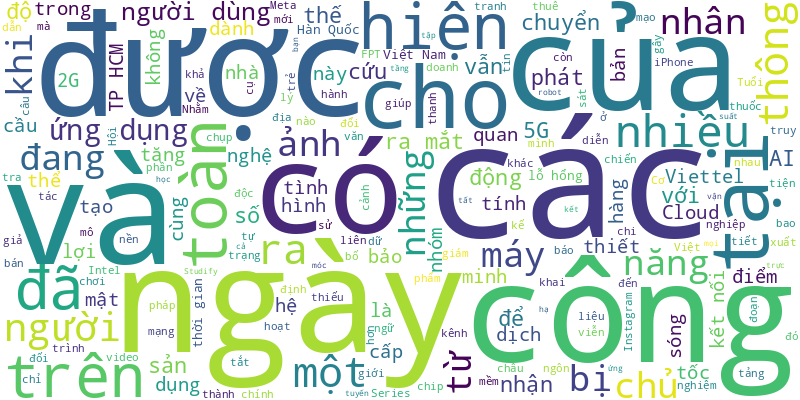
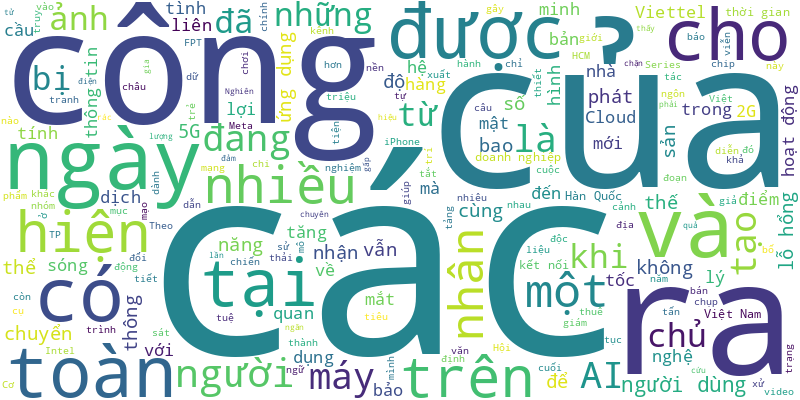
🍀 = 60%

diff --git a/README.md b/README.md
@@ -1,6 +1,16 @@
 # Tuoi Tre RSS 
 
 ## Giáo dục 
+- Trước khi bị hủy văn bằng cử nhân văn học, bà Đào Thị Bích Thủy từng được phó chủ tịch hội đồng trường Trường đại học Kinh Bắc ký quyết định tiếp nhận và bổ nhiệm giữ chức vụ phó hiệu trưởng, kiêm chánh văn phòng của trường.
+- Thủ tướng lưu ý hoàn thiện cơ chế chính sách tuyển dụng, đãi ngộ để giáo viên được thụ hưởng mức lương tương xứng với công sức của mình.
+- Đại sứ New Zealand tại Việt Nam Caroline Beresford ví von giáo dục như một 'viên ngọc trên chiếc vương miện' của mối quan hệ hợp tác giữa hai nước.
+- Trường đại học Công Thương TP.HCM vừa công bố định hướng tuyển sinh đại học chính quy năm 2025, với nhiều thay đổi bất ngờ.
+- Chính phủ vừa ban hành quyết định về việc chuyển Trường đại học Kinh tế quốc dân thành Đại học Kinh tế quốc dân.
+- Một sinh viên sáng chế sản phẩm sáng tạo gặp khó khi tìm đường đưa sản phẩm ra thị trường Việt Nam. Nhưng cũng với nghiên cứu này, sinh viên đã nhận được học bổng du học của một trường nước ngoài.
+- Bộ Giáo dục và Đào tạo khẳng định không giao Trung tâm khảo thí quốc gia và đánh giá chất lượng giáo dục xây dựng bài thi V-SAT.
+- Nhiều năm đóng góp cho hoạt động xã hội, giải thưởng khoa học… GS.TS Lê Ngọc Thạch nói nhẹ bâng: 'Tôi làm bổn phận một công dân. Tôi học thầy tôi'.
+- Phó thủ tướng Chính phủ Lê Thành Long chỉ đạo Bộ Giáo dục và Đào tạo do nhận thấy những lo lắng của phụ huynh.
+- Đây là nghiên cứu khoa học đầu tiên ở cấp độ sinh viên dùng công nghệ đo điện não để hỗ trợ tâm lý cho người có biểu hiện trầm cảm.
 - Hiện tại mô hình giảng dạy AI và mã hóa đã được thử nghiệm tại một số trường học ở thủ đô Jakarta, Indonesia.
 - 'Nhiệm vụ giáo dục ở vùng sâu, vùng xa và những trường chuyên biệt còn nhiều thử thách, thiếu thốn, bất cập, nên cần hơn hết những nhà giáo tiên phong, lĩnh xướng nhận nhiệm vụ đó', Thứ trưởng Nguyễn Thị Kim Chi chia sẻ với các nhà giáo.
 - Cuộc thi Vô địch quốc gia STEM, AI và Robotics 2024 (Vietnam STEM AI Robotics - VSAR) dành cho học sinh phổ thông với chủ đề "Nông nghiệp xanh - Phát triển bền vững" khai mạc chiều 14-11, do báo Tiền Phong tổ chức.
@@ -21,50 +31,42 @@
 - Chỉ thống thông thạo tiếng Anh EPI của Việt Nam năm 2024 giảm so với năm 2023, dẫn đến sự tuột bậc trên bảng xếp hạng.
 - Nhiều học sinh, phụ huynh lo lắng trước thông tin kỳ thi đánh giá năng lực Đại học Quốc gia TP.HCM năm 2025 chỉ dành cho học sinh lớp 12. Thực hư việc này ra sao?
 - Hiệu trưởng Trường tiểu học Phan Văn Trị, quận 1, TP.HCM viết thư ngỏ xin không nhận hoa, quà ngày 20-11, mà đổi thành tập, sữa… cho học sinh.
-- Cấu trúc bài thi đánh giá năng lực Đại học Quốc gia TP.HCM từ năm 2025 được điều chỉnh phù hợp với Chương trình giáo dục phổ thông 2018.
-- Ngày 12-11, ông Trần Đề - hiệu trưởng Trường TH & THCS Thuận Lộc, thị xã Hồng Lĩnh, tỉnh Hà Tĩnh - cho biết nhà trường đã nhận thêm 580 quyển sách quý do báo Tuổi Trẻ chuyển đến từ TP.HCM giúp xây thư viện cho các em học sinh.
-- Đây là nội dung vừa được thống nhất trong buổi làm việc giữa Đại học Quốc gia Hà Nội và Bộ Công an về việc hợp tác đào tạo, bồi dưỡng nguồn nhân lực y tế cho lực lượng Công an nhân dân.
-- Theo Bộ trưởng Nguyễn Kim Sơn, giáo dục thủ đô cần hướng tới mục tiêu cao hơn yêu cầu chung cả nước, tạo nên những công dân có kỹ năng khoa học công nghệ, văn minh thanh lịch thời đại số, tốt chuyên môn, giỏi ngoại ngữ.
-- Với kinh nghiệm lâu năm và chiến lược giáo dục không ngừng đổi mới, Đài Loan đã xây dựng một cơ chế đào tạo nhân lực ngành bán dẫn hiệu quả.
-- Do mâu thuẫn từ trước trong trường học, 2 nam sinh đâm 2 nữ sinh trọng thương phải nhập viện cấp cứu.
-- Sinh viên sư phạm Trường đại học Sài Gòn phản ánh học đến năm 4 vẫn chưa nhận được hỗ trợ sinh hoạt phí. Có sinh viên phải tạm thời nghỉ học.
-- Cơ quan Giáo dục New Zealand (ENZ) vừa công bố học bổng Chính phủ New Zealand bậc đại học (NZUA) dành riêng cho học sinh, sinh viên Việt Nam.
-- Trong kỷ nguyên chuyển đổi số, các hình thức thi đánh giá năng lực ngoại ngữ đã bắt kịp xu thế mới và thi trên máy vi tính đang được thí sinh toàn cầu ưa chuộng.
-- Trong 17 năm qua, quỹ học bổng của gia đình giáo sư Lê Viết Ly đã tài trợ cho tỉnh Thanh Hóa để xây dựng trường học, hỗ trợ thiết bị giáo dục, trao học bổng, trao thưởng với tổng số tiền hơn 75 tỉ đồng.
 ![Edu](Edu.png)
 ## Thời Sự 
-- 12 người có hành vi môi giới mại dâm, mua bán và tổ chức sử dụng ma túy đã bị Công an quận Ngô Quyền (TP Hải Phòng) bắt giữ.
-- Ban giám đốc Công an TP.HCM đã chỉ đạo triển khai thực hiện kế hoạch tăng cường công tác phòng ngừa, quản lý, đấu tranh xử lý các hành vi vi phạm pháp luật liên quan kinh doanh hóa chất nguy hiểm, độc hại, trong đó có xyanua.
-- Dự báo ngày 15-11, bão Usagi có khả năng đi vào đông bắc của Bắc Biển Đông, trở thành cơn bão số 9, nhưng ít có khả năng ảnh hưởng tới đất liền nước ta.
-- TP.HCM lập hội đồng thu hút người tài trong lĩnh vực văn hóa, nghệ thuật, thể thao; Khách của ngân hàng chưa xác thực sinh trắc học sẽ gặp khó.
-- Về khái niệm người Hà Nội gốc gây tranh cãi và "bất hòa" nhiều năm nay, nhà nghiên cứu, phê bình văn học Phạm Xuân Thạch nói: 'Tốt nhất là nên quên nó đi'.
-- Hôm nay 15-11, thời tiết cả nước ổn định, ba miền ngày nắng. Trên biển bão số 8 suy yếu nhanh rồi tan.
-- Trong các ưu tiên trao đổi của thượng đỉnh G20 năm nay tại Brazil, có các lĩnh vực Việt Nam đã đạt được thành tựu to lớn.
-- Bí thư Thành ủy TP.HCM Nguyễn Văn Nên đã tiếp Đại sứ Mông Cổ tại Việt Nam Jigjee Sereejav đến chào từ biệt nhân dịp kết thúc nhiệm kỳ tại Việt Nam.
-- Thủ tướng yêu cầu các bên nỗ lực nối đường cao tốc từ Cao Bằng - Lạng Sơn tới Hà Nội và thông tuyến cao tốc từ Bắc vào Nam, tới tận mũi Cà Mau, mục tiêu hoàn thành trong năm 2025.
-- Biết người từng giúp mình nhập khẩu chiếc Mercedes-Benz là phó chánh văn phòng Ban chỉ đạo 389, chủ một công ty bất động sản đe dọa tống tiền 10 tỉ nếu không sẽ cho 'bay chức'. Chủ doanh nghiệp này bị tòa tuyên án phạt 12 năm tù.
-- Về vụ tiền đất tăng đột biến ở Khánh Hòa, từ năm 2023 tỉnh đã báo cáo Bộ Tài chính có tới 86 đơn vị bị ảnh hưởng, do điều chỉnh đơn giá đất “không tương ứng” và tỉnh chậm ban hành quyết định liên quan nhưng đến nay chưa “sửa sai”.
-- Thủ tướng Chính phủ ký quyết định bổ nhiệm ông Lê Tiến Đạt giữ chức phó tổng Thanh tra Chính phủ. Trước đó ông giữ chức vụ cục trưởng ở cơ quan này.
-- Chủ tịch UBND huyện Tri Tôn, tỉnh An Giang cho hay cơ quan công an đang xem xét, củng cố hồ sơ khởi tố vụ án và bị can là tài xế lái ô tô tải làm sập cầu.
-- Khảo sát đầu tư tại tỉnh Quảng Trị, Tập đoàn Công nghiệp than - khoáng sản Việt Nam (TKV) mong muốn đầu tư dự án để nhập khẩu 5 triệu tấn than đá từ Lào qua tỉnh này, dự án chế biến than từ 8 - 10 triệu tấn/năm.
-- Tổng Bí thư Tô Lâm nhấn mạnh nhiệm vụ xây dựng TP Hải Phòng phát triển ngang tầm với các thành phố tiêu biểu châu Á.
-- Phó bí thư thường trực Thành ủy TP.HCM Nguyễn Hồ Hải lưu ý việc tự kiểm tra giám sát, ngăn ngừa được những sai phạm lớn là điều quan trọng.
-- Người phụ nữ từ Trà Vinh lên thuê trọ tại TP Thủ Đức để trị bệnh ung thư. Sau khi làm tiểu phẫu tại phòng trọ, bà bị mệt, được đưa đến bệnh viện nhưng đã tử vong.
-- HĐND tỉnh Ninh Thuận ra nghị quyết điều chỉnh giảm mức đầu tư đường nối từ cao tốc Bắc - Nam đến cảng Cà Ná so với trước đây hơn 200 tỉ đồng, giảm bề rộng mặt đường để kéo dài toàn tuyến thêm 8,2km.
-- Theo giáo sư Nguyễn Ngọc Trân, kênh Vĩnh Tế mà cha ông đã tốn bao công sức, kể cả sinh mạng để tạo nên là một tài sản vô cùng quý giá của quốc gia.
-- Thủ tướng Phạm Minh Chính sẽ dự Hội nghị Thượng đỉnh G20 tại Rio de Janeiro, và thăm Cộng hòa Dominica sau đó từ ngày 16 đến 21-11.
-- Tại dự Luật Đầu tư công sửa đổi mới nhất, tiếp tục quy định phân cấp cho UBND các cấp quyết định chủ trương đầu tư nhóm B, nhóm C do địa phương quản lý.
-- Thanh tra Bộ Tài nguyên và Môi trường quyết định thanh tra công tác cấp giấy chứng nhận tại TP.HCM và đang triển khai đoàn thanh tra.
-- UBND TP.HCM vừa có văn bản gửi các sở ban ngành, quận huyện yêu cầu tập trung giải quyết dứt điểm các dự án tồn đọng.
-- Ngày 14-11, tại trụ sở Thành ủy Hà Nội, Ban Chỉ đạo Thành ủy về phòng, chống tham nhũng, tiêu cực đã tổ chức họp cho ý kiến về tình hình, kết quả hoạt động thời gian qua, nhiệm vụ trọng tâm những tháng cuối năm 2024.
-- TP Cần Thơ sắp mở đường bay tới tỉnh Vân Nam và thành phố Trùng Khánh của Trung Quốc để giao thương và khai thác hiệu quả sân bay quốc tế Cần Thơ.
-- Theo kế hoạch, dự án đường nối Trần Quốc Hoàn sẽ hoàn thành trong năm 2024, nhưng hiện còn 68 mặt bằng chưa bàn giao.
-- Nhiều bệnh viện tại TP.HCM siết chặt quản lý công tác thu phí gửi xe tại bệnh viện, thu phí gửi xe đúng giá, đúng quy định.
-- Trong 5 dự án BOT cửa ngõ TP.HCM theo nghị quyết 98, các đơn vị tư vấn đề xuất 3 dự án đi trên cao, 2 dự án còn lại đi thấp.
-- Hàng loạt cây xanh được trồng dọc quốc lộ 15B bị trụi lá, chết khô. Được biết tình trạng này từng xảy ra sau khi hoàn thành dự án, và đơn vị cung cấp cây xanh buộc phải trồng cây thay thế.
-- Sau khi quận Phú Nhuận triển khai sửa chữa, cải tạo cơ sở hạ tầng phố ẩm thực Phan Xích Long, doanh thu của các cửa hàng tăng từ 20-30%, giờ cao điểm một số điểm phải đặt chỗ trước.
+- Bão Man-yi mạnh cấp 15 (167-183km/h), giật trên cấp 17 đang hướng về đảo Luzon của Philippines và khả năng đi vào Biển Đông sáng 18-11.
+- Người Việt tiêu thụ tới 6,67 tỉ lít đồ uống có đường; Thêm ca tử vong ở Bình Định do cúm A/H1 pdm, bệnh nhân 59 tuổi.
+- Hôm nay 16-11, thời tiết cả nước tiếp tục chuỗi ngày ổn định, ba miền ngày nắng. Bắc Bộ sáng sớm có sương mù, Nam Bộ nhiều mây.
+- Rạng sáng 16-11, Thủ tướng Phạm Minh Chính và Phu nhân lên chuyên cơ rời Hà Nội, hướng đến điểm dừng chân đầu tiên trong chuyến công du là Brazil.
+- Vụ nổ lớn xảy ra trong căn nhà hai tầng ở thôn 1, xã Du Lễ, huyện Kiến Thụy, TP Hải Phòng làm một người bị thương nặng.
+- Tối 15-11, tại Hà Nội, Ban Tuyên giáo Trung ương chủ trì, phối hợp với Đài Truyền hình Việt Nam tổ chức chương trình 'Hồ Chí Minh - Hành trình khát vọng 2024'.
+- Buổi gặp gỡ không chỉ là cầu nối giữa quá khứ và hiện tại, mà còn thắp lên trong lòng thế hệ thanh niên TP niềm tự hào dân tộc.
+- Các tổ chức, doanh nghiệp, ngân hàng, cá nhân đã đóng góp gần 69 tỉ đồng ủng hộ quỹ Vì người nghèo năm 2024 và hưởng ứng phong trào thi đua xóa nhà tạm, nhà dột nát tại tỉnh Khánh Hòa.
+- Chủ tịch UBND TP.HCM Phan Văn Mãi chủ trì buổi tiếp và chiêu đãi đoàn đại biểu tỉnh Savannakhet (Lào).
+- Doanh nghiệp thuê khu đất 419 Lê Hồng Phong (quận 10, TP.HCM) đang khẩn trương tháo dỡ nhà xưởng, để trả khu đất cho Nhà nước trước ngày 31-12-2024.
+- Tài xế trong vụ cháy xe trên tỉnh lộ 725 đã được tìm thấy dưới vực đèo Con Ó (huyện Đạ Tẻh, Lâm Đồng).
+- Thủ tướng lưu ý hoàn thiện cơ chế chính sách tuyển dụng, đãi ngộ để giáo viên được thụ hưởng mức lương tương xứng với công sức của mình.
+- Đại Cung Môn - cánh cửa mở lối vào Tử Cấm Thành bên trong hoàng cung triều Nguyễn - sắp được phục dựng nguyên trạng.
+- Từ nay đến cuối năm, Chủ tịch UBND TP.HCM Phan Văn Mãi yêu cầu các cấp các ngành tập trung thi đua hoàn thành các chỉ tiêu, nhiệm vụ năm 2024 về đầu tư công, tăng trưởng, giải quyết tồn đọng, chuyển đổi số và nghị quyết 98.
+- Bộ Chính trị kỷ luật cảnh cáo Ban Thường vụ Tỉnh ủy Quảng Ninh, Ban Thường vụ Tỉnh ủy Đắk Lắk và các ông Nguyễn Xuân Ký, Bùi Văn Cường.
+- Người dân trong lúc đi tập thể dục ở đầu cồn Tân Long, TP Mỹ Tho bất ngờ phát hiện một thi thể nam giới trôi dạt vướng vào cầu ra bè nuôi cá, nên trình báo công an.
+- Sau khi tìm và đưa máy bay Yak-130 về, Trường Sĩ quan Không quân đã đến cảm ơn lực lượng tìm kiếm ở Đắk Lắk.
+- Tỉnh Cà Mau vừa tổ chức hội thảo khoa học 200 ngày tập kết ra Bắc tại Cà Mau - tầm nhìn chiến lược và giá trị lịch sử. Đây là một trong nhiều hoạt động kỷ niệm 70 năm tập kết ra Bắc (1954 - 2024).
+- Do vướng mặt bằng, dự án mở rộng xa lộ Hà Nội đến nay vẫn chưa hoàn thiện. Theo ghi nhận của phóng viên, hiện đoạn hầm dạ cầu vượt Trạm 2 thuộc dự án này còn ngổn ngang, chưa thể thông suốt.
+- Dự kiến từ ngày 2-12, Viện Nghiên cứu phát triển TP.HCM sẽ điều tra xã hội học hơn 48.000 nhà trên và ven kênh rạch để xây dựng đề án di dời toàn bộ số nhà này.
+- Ngân hàng SCB xin Lâm Đồng dừng thu hồi đất, dừng chấm dứt hoạt động dự án Đà Lạt Plaza do có liên quan vụ án bà Trương Mỹ Lan.
+- 4 phó thủ tướng được phân công trực tiếp theo dõi, chỉ đạo nhiều kiến nghị của tỉnh Quảng Trị sau chuyến công tác của Tổng Bí thư Tô Lâm.
+- Ông Trần Văn Mẫn - giám đốc Sở Xây dựng Quảng Ngãi - được điều động, bổ nhiệm làm trưởng Ban quản lý Khu kinh tế Dung Quất và các khu công nghiệp tỉnh Quảng Ngãi.
+- UBND xã Xuân Tô, nay là phường Tịnh Biên, thị xã Tịnh Biên, tỉnh An Giang bán vượt thẩm quyền 1,5ha đất công, nhưng 20 năm nay chưa giải quyết xong.
+- Bộ Công an cam kết cùng các bộ, ngành, Liên Hiệp Quốc hưởng ứng Tháng hành động vì bình đẳng giới và phòng ngừa, ứng phó với bạo lực trên cơ sở giới năm 2024 bằng nhiều hành động cụ thể.
+- Sáng 15-11, tại Hà Nội, Hội đồng khoa học các cơ quan Đảng Trung ương chủ trì, phối hợp với bộ biên tập tạp chí Cộng sản tổ chức Hội thảo khoa học quốc gia “Kỷ nguyên mới, kỷ nguyên vươn mình của dân tộc Việt Nam - Những vấn đề lý luận và thực tiễn”.
+- 5 ngày qua, tuyến metro số 1 đã vận hành thử nghiệm 100% công suất. Đây là một bước quan trọng cuối cùng trước khi chính thức chạy thương mại, đánh dấu một cột mốc quan trọng để phát triển giao thông công cộng của TP.HCM.
+- Để bước vào kỷ nguyên mới, PGS Lê Minh Thông cho hay cơ quan, công chức nhà nước tư duy kiểu 'mình có quyền' là không ổn mà phải tư duy 'mình có nghĩa vụ phục vụ'.
+- Sau hơn 50 năm treo lá cờ của Mặt trận Dân tộc Giải phóng miền Nam Việt Nam trên chóp tháp nhà thờ Đức Bà Paris (Pháp), 2 công dân người Thụy Sĩ lần đầu đặt chân đến Việt Nam.
+- Một sinh viên sáng chế sản phẩm sáng tạo gặp khó khi tìm đường đưa sản phẩm ra thị trường Việt Nam. Nhưng cũng với nghiên cứu này, sinh viên đã nhận được học bổng du học của một trường nước ngoài.
 ![New](News.png)
 ## Nhịp sống số 
+- Theo các chuyên gia, mục tiêu cuối cùng của an toàn thông tin không phải là xử lý được bao nhiêu lỗ hổng, ngăn chặn bao nhiêu cuộc tấn công, mà là bảo đảm tính liên tục, hiệu quả cho hoạt động của doanh nghiệp.
+- Nghiên cứu mới cho thấy lượng rác thải điện tử do trí tuệ nhân tạo (AI) tạo ra có thể tăng gấp 2.000 lần vào năm 2030, lên đến 5 triệu tấn.
 - Ngày 9-11, ứng dụng học tập trực tuyến Studify được một nhóm bạn trẻ ra mắt tại TP.HCM.
 - Máy móc vận hành tự động, robot xuất hiện ở mọi công đoạn, hoạt động sản suất được giám sát toàn trình… và tất cả được kết nối trên hạ tầng mạng là viễn cảnh sản xuất thông minh mà 5G2B của Viettel đang hiện thực hoá.
 - Những lỗ hổng này có thể ảnh hưởng từ smartphone, máy tính bảng cho đến phương tiện di chuyển có kết nối công nghệ và hệ thống viễn thông.
@@ -93,6 +95,4 @@
 - Intel công bố ra mắt sản phẩm chip AI mới, cạnh tranh với các đối thủ AMD và Nvidia.
 - Thông tin được ông Nguyễn Minh Hồng - chủ tịch Hội Truyền thông số Việt Nam - đưa ra tại hội thảo an toàn thông tin trong chuyển đổi số ngày 24-9, tại Cần Thơ.
 - Nhằm giúp doanh nghiệp tiết kiệm chi phí mà vẫn có thể tận dụng nhiều lợi ích của các máy chủ cloud, Bizfly Cloud tung ra dòng máy chủ Cloud VPS giá rẻ hấp dẫn.
-- Sở Y tế TP.HCM đã triển khai phần mềm tra cứu thuốc cấp cứu, với 14 bệnh viện tham gia tra cứu, chia sẻ 37 loại thuốc cấp cứu.
-- Ứng dụng Instagram đã cho ra mắt tính năng được thiết kế dành riêng cho lứa tuổi thanh thiếu niên nhằm tăng cường các biện pháp bảo vệ nhóm đối tượng này.
 ![life](Life.png)
